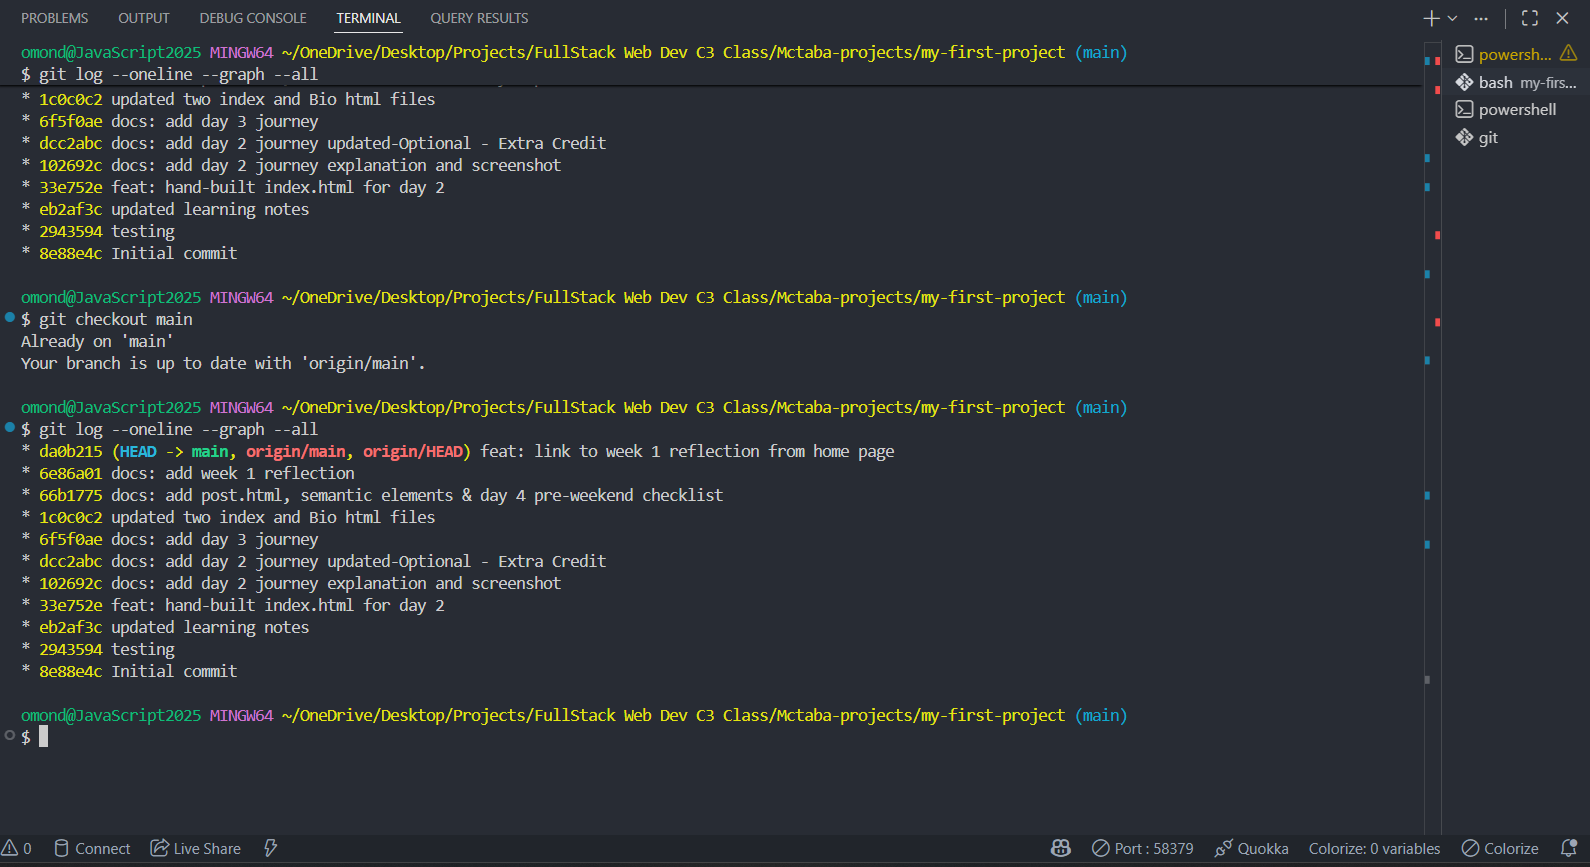
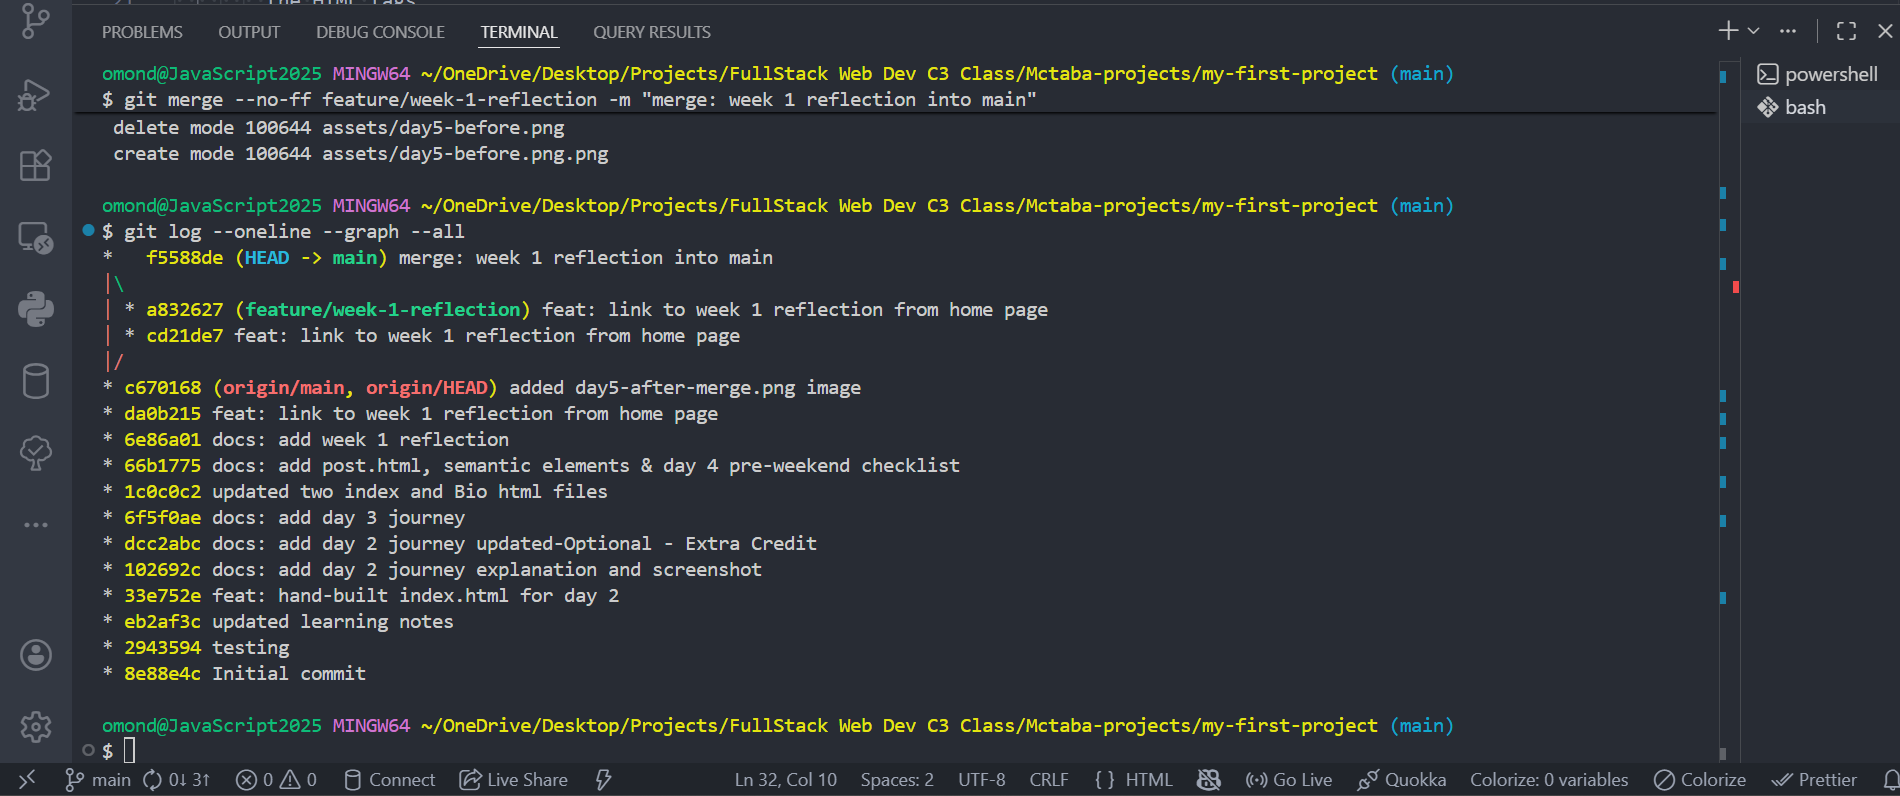
docs: add merge conflict lessons

diff --git a/bio.html b/bio.html
@@ -7,7 +7,7 @@
   </head>
   <body>
     <head>
-      <h1>Fredrick Moshe Omondi</h1>
+      <h1>Fredrick Moshe Omondi 😘</h1>
       <img
         src="/my-first-project/assets/img01.png"
         alt="passport image of Fredrick Omondi"